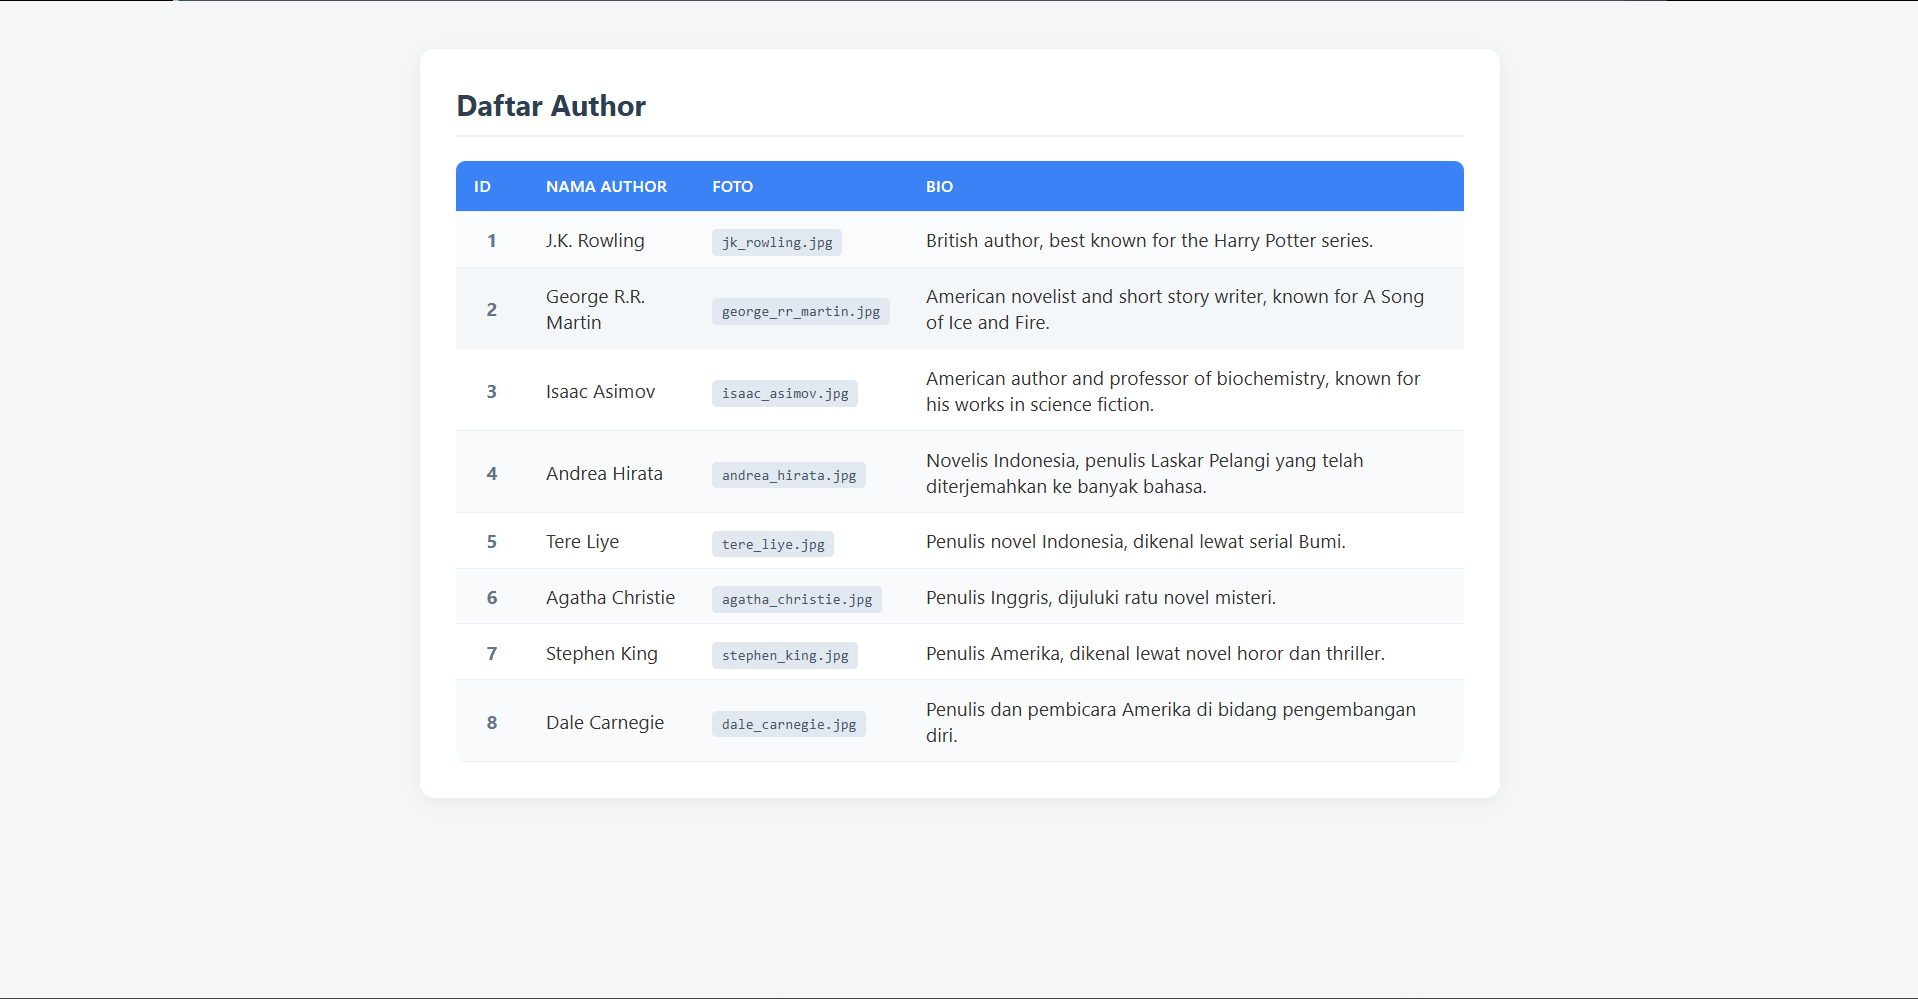
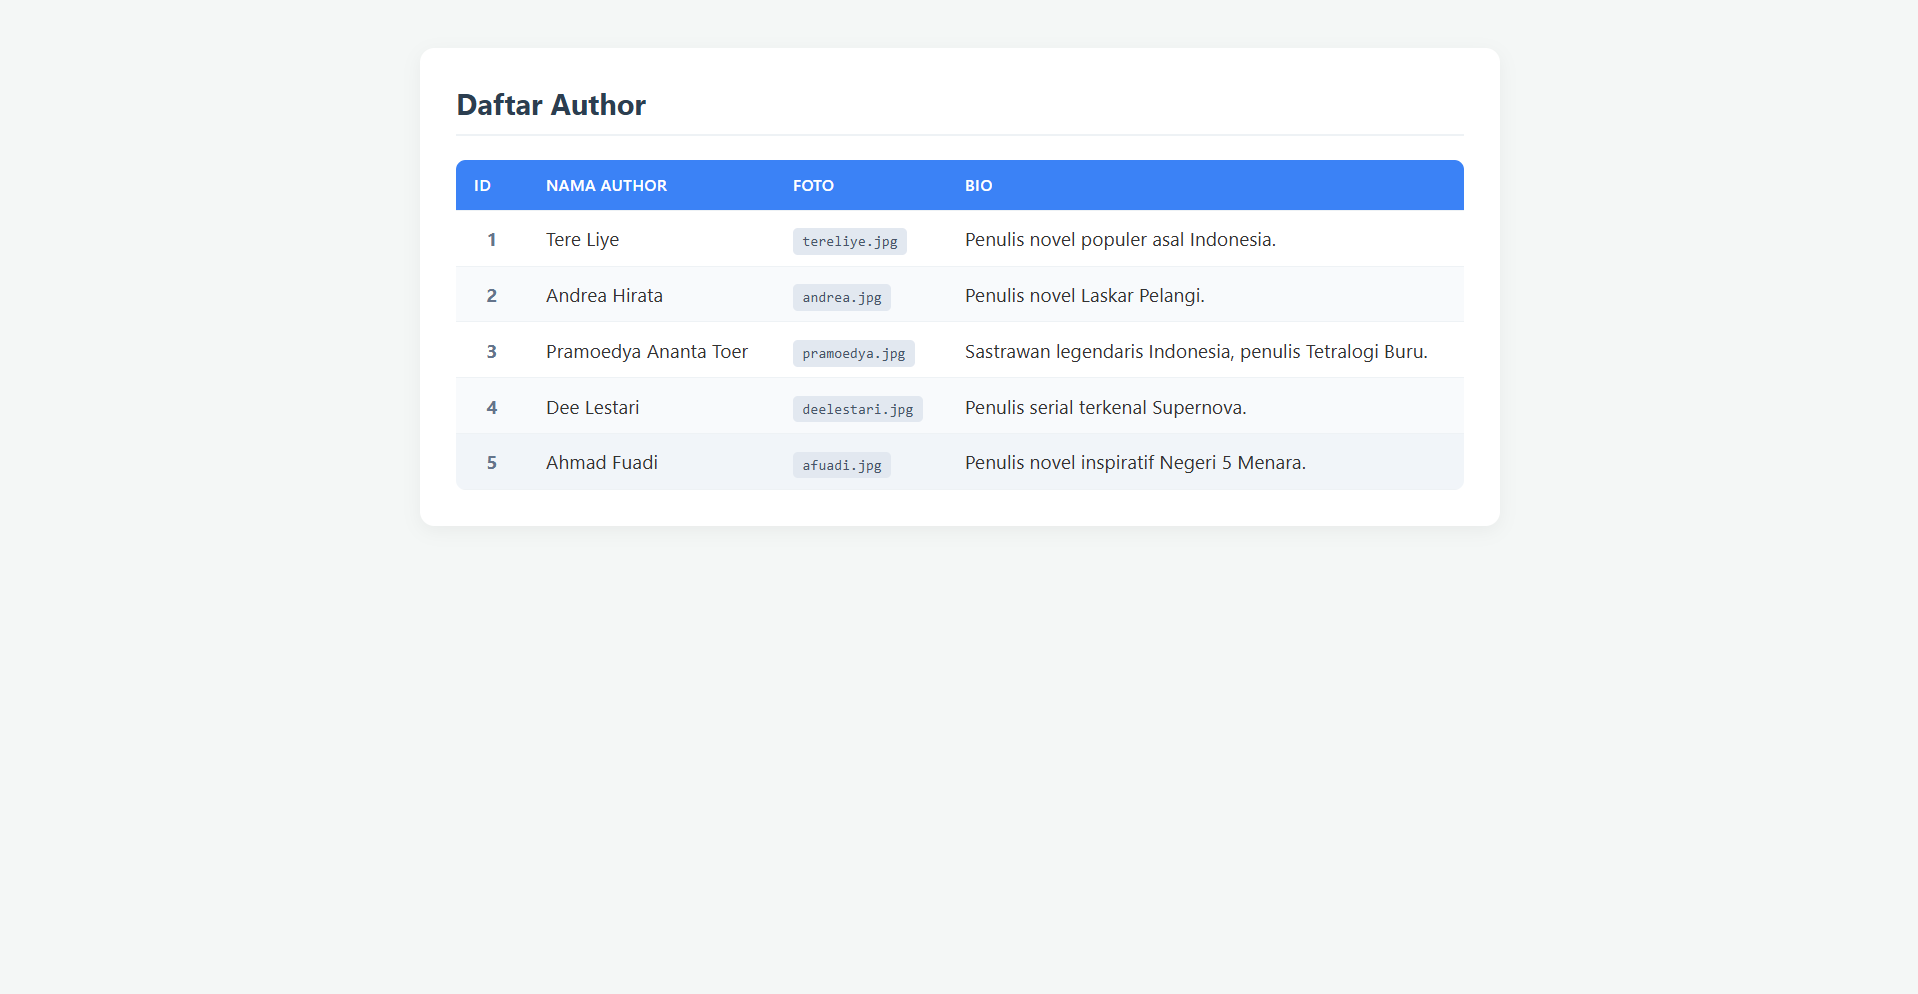
materi migration & seeder

diff --git a/booksales-api/resources/views/books/index.blade.php b/booksales-api/resources/views/books/index.blade.php
@@ -1,0 +1,109 @@
+<!DOCTYPE html>
+<html lang="id">
+<head>
+    <meta charset="UTF-8">
+    <meta name="viewport" content="width=device-width, initial-scale=1.0">
+    <title>Daftar Buku</title>
+    <style>
+        * {
+            box-sizing: border-box;
+            margin: 0;
+            padding: 0;
+        }
+        body {
+            font-family: 'Segoe UI', Tahoma, Geneva, Verdana, sans-serif;
+            background-color: #f4f7f6;
+            color: #333;
+            padding: 40px 20px;
+            display: flex;
+            justify-content: center;
+        }
+        .container {
+            width: 100%;
+            max-width: 900px;
+            background: #ffffff;
+            padding: 30px;
+            border-radius: 12px;
+            box-shadow: 0 4px 15px rgba(0,0,0,0.05);
+        }
+        h1 {
+            margin-bottom: 20px;
+            color: #2c3e50;
+            border-bottom: 2px solid #eef2f5;
+            padding-bottom: 10px;
+            font-size: 24px;
+        }
+        table {
+            width: 100%;
+            border-collapse: collapse;
+            margin-top: 10px;
+            overflow: hidden;
+            border-radius: 8px;
+        }
+        th, td {
+            padding: 12px 15px;
+            text-align: left;
+        }
+        th {
+            background-color: #3b82f6;
+            color: #ffffff;
+            font-weight: 600;
+            text-transform: uppercase;
+            font-size: 13px;
+            letter-spacing: 0.5px;
+        }
+        tr {
+            border-bottom: 1px solid #eef2f5;
+            transition: background-color 0.2s ease;
+        }
+        tr:nth-child(even) {
+            background-color: #f8fafc;
+        }
+        tr:hover {
+            background-color: #f1f5f9;
+        }
+        td:first-child {
+            font-weight: bold;
+            color: #64748b;
+            text-align: center;
+            width: 60px;
+        }
+        .price-tag {
+            background-color: #e2e8f0;
+            padding: 4px 8px;
+            border-radius: 4px;
+            font-family: monospace;
+            font-size: 12px;
+            color: #475569;
+            font-weight: bold;
+        }
+    </style>
+</head>
+<body>
+    <div class="container">
+        <h1>Daftar Buku</h1>
+        <table>
+            <thead>
+                <tr>
+                    <th>ID</th>
+                    <th>Judul Buku</th>
+                    <th>Harga</th>
+                    <th>Stok</th>
+                    <th>Penulis</th>
+                </tr>
+            </thead>
+            <tbody>
+                @foreach ($books as $book)
+                    <tr>
+                        <td>{{ $book->id }}</td>
+                        <td>{{ $book->title }}</td>
+                        <td><span class="price-tag">Rp {{ number_format($book->price, 0, ',', '.') }}</span></td>
+                        <td>{{ $book->stock }}</td>
+                        <td>{{ $book->author->name ?? 'Tidak ada author' }}</td>
+                    </tr>
+                @endforeach
+            </tbody>
+        </table>
+    </div>
+</body>
+</html>

diff --git a/booksales-api/app/Models/Author.php b/booksales-api/app/Models/Author.php
@@ -2,19 +2,15 @@
 
 namespace App\Models;
 
-class Author
+use Illuminate\Database\Eloquent\Model;
+use Illuminate\Database\Eloquent\Relations\HasMany;
+
+class Author extends Model
 {
-    public static function getAllData()
+    protected $fillable = ['name', 'email', 'photo', 'bio'];
+
+    public function books(): HasMany
     {
-        return [
-            ['id' => 1, 'name' => 'J.K. Rowling', 'photo' => 'jk_rowling.jpg', 'bio' => 'British author, best known for the Harry Potter series.'],
-            ['id' => 2, 'name' => 'George R.R. Martin', 'photo' => 'george_rr_martin.jpg', 'bio' => 'American novelist and short story writer, known for A Song of Ice and Fire.'],
-            ['id' => 3, 'name' => 'Isaac Asimov', 'photo' => 'isaac_asimov.jpg', 'bio' => 'American author and professor of biochemistry, known for his works in science fiction.'],
-            ['id' => 4, 'name' => 'Andrea Hirata', 'photo' => 'andrea_hirata.jpg', 'bio' => 'Novelis Indonesia, penulis Laskar Pelangi yang telah diterjemahkan ke banyak bahasa.'],
-            ['id' => 5, 'name' => 'Tere Liye', 'photo' => 'tere_liye.jpg', 'bio' => 'Penulis novel Indonesia, dikenal lewat serial Bumi.'],
-            ['id' => 6, 'name' => 'Agatha Christie', 'photo' => 'agatha_christie.jpg', 'bio' => 'Penulis Inggris, dijuluki ratu novel misteri.'],
-            ['id' => 7, 'name' => 'Stephen King', 'photo' => 'stephen_king.jpg', 'bio' => 'Penulis Amerika, dikenal lewat novel horor dan thriller.'],
-            ['id' => 8, 'name' => 'Dale Carnegie', 'photo' => 'dale_carnegie.jpg', 'bio' => 'Penulis dan pembicara Amerika di bidang pengembangan diri.'],
-        ];
+        return $this->hasMany(Book::class);
     }
 }

diff --git a/booksales-api/database/seeders/BookSeeder.php b/booksales-api/database/seeders/BookSeeder.php
@@ -1,0 +1,20 @@
+<?php
+
+namespace Database\Seeders;
+
+use Illuminate\Database\Seeder;
+use Illuminate\Support\Facades\DB;
+
+class BookSeeder extends Seeder
+{
+    public function run(): void
+    {
+        DB::table('books')->insert([
+            ['id' => 1, 'title' => 'Bumi', 'description' => 'Novel petualangan dunia paralel.', 'price' => 95000.00, 'stock' => 15, 'cover_photo' => 'bumi.jpg', 'genre_id' => 1, 'author_id' => 1, 'created_at' => now(), 'updated_at' => now()],
+            ['id' => 2, 'title' => 'Laskar Pelangi', 'description' => 'Kisah inspiratif anak-anak Belitung.', 'price' => 88000.00, 'stock' => 20, 'cover_photo' => 'laskar_pelangi.jpg', 'genre_id' => 1, 'author_id' => 2, 'created_at' => now(), 'updated_at' => now()],
+            ['id' => 3, 'title' => 'Bumi Manusia', 'description' => 'Karya legendaris Tetralogi Buru.', 'price' => 105000.00, 'stock' => 10, 'cover_photo' => 'bumi_manusia.jpg', 'genre_id' => 1, 'author_id' => 3, 'created_at' => now(), 'updated_at' => now()],
+            ['id' => 4, 'title' => 'Supernova', 'description' => 'Serial fiksi ilmiah modern.', 'price' => 90000.00, 'stock' => 12, 'cover_photo' => 'supernova.jpg', 'genre_id' => 3, 'author_id' => 4, 'created_at' => now(), 'updated_at' => now()],
+            ['id' => 5, 'title' => 'Negeri 5 Menara', 'description' => 'Novel inspiratif impian anak pesantren.', 'price' => 85000.00, 'stock' => 18, 'cover_photo' => 'negeri5menara.jpg', 'genre_id' => 4, 'author_id' => 5, 'created_at' => now(), 'updated_at' => now()],
+        ]);
+    }
+}

diff --git a/booksales-api/database/seeders/AuthorSeeder.php b/booksales-api/database/seeders/AuthorSeeder.php
@@ -1,0 +1,20 @@
+<?php
+
+namespace Database\Seeders;
+
+use Illuminate\Database\Seeder;
+use Illuminate\Support\Facades\DB;
+
+class AuthorSeeder extends Seeder
+{
+    public function run(): void
+    {
+        DB::table('authors')->insert([
+            ['id' => 1, 'name' => 'Tere Liye', 'photo' => 'tereliye.jpg', 'bio' => 'Penulis novel populer asal Indonesia.', 'created_at' => now(), 'updated_at' => now()],
+            ['id' => 2, 'name' => 'Andrea Hirata', 'photo' => 'andrea.jpg', 'bio' => 'Penulis novel Laskar Pelangi.', 'created_at' => now(), 'updated_at' => now()],
+            ['id' => 3, 'name' => 'Pramoedya Ananta Toer', 'photo' => 'pramoedya.jpg', 'bio' => 'Sastrawan legendaris Indonesia, penulis Tetralogi Buru.', 'created_at' => now(), 'updated_at' => now()],
+            ['id' => 4, 'name' => 'Dee Lestari', 'photo' => 'deelestari.jpg', 'bio' => 'Penulis serial terkenal Supernova.', 'created_at' => now(), 'updated_at' => now()],
+            ['id' => 5, 'name' => 'Ahmad Fuadi', 'photo' => 'afuadi.jpg', 'bio' => 'Penulis novel inspiratif Negeri 5 Menara.', 'created_at' => now(), 'updated_at' => now()],
+        ]);
+    }
+}

diff --git a/booksales-api/database/migrations/2026_10_27_032748_create_authors_table.php b/booksales-api/database/migrations/2026_10_27_032748_create_authors_table.php
@@ -1,0 +1,28 @@
+<?php
+
+use Illuminate\Database\Migrations\Migration;
+use Illuminate\Database\Schema\Blueprint;
+use Illuminate\Support\Facades\Schema;
+
+return new class extends Migration
+{
+    public function up(): void
+    {
+        Schema::create('books', function (Blueprint $table) {
+            $table->id();
+            $table->string('title');
+            $table->text('description')->nullable();
+            $table->decimal('price', 10, 2);
+            $table->integer('stock');
+            $table->string('cover_photo')->nullable();
+            $table->foreignId('genre_id')->nullable()->constrained('genres')->onDelete('set null');
+            $table->foreignId('author_id')->constrained('authors')->onDelete('cascade');
+            $table->timestamps();
+        });
+    }
+
+    public function down(): void
+    {
+        Schema::dropIfExists('books');
+    }
+};

diff --git a/booksales-api/database/migrations/2026_10_27_032809_create_books_table.php b/booksales-api/database/migrations/2026_10_27_032809_create_books_table.php
@@ -1,0 +1,28 @@
+<?php
+
+use Illuminate\Database\Migrations\Migration;
+use Illuminate\Database\Schema\Blueprint;
+use Illuminate\Support\Facades\Schema;
+
+return new class extends Migration
+{
+    public function up(): void
+    {
+        Schema::create('books', function (Blueprint $table) {
+            $table->id();
+            $table->string('title');
+            $table->text('description')->nullable();
+            $table->decimal('price', 10, 2);
+            $table->integer('stock');
+            $table->string('cover_photo')->nullable();
+            $table->foreignId('genre_id')->nullable()->constrained('genres')->onDelete('set null');
+            $table->foreignId('author_id')->constrained('authors')->onDelete('cascade');
+            $table->timestamps();
+        });
+    }
+
+    public function down(): void
+    {
+        Schema::dropIfExists('books');
+    }
+};

diff --git a/booksales-api/app/Models/Book.php b/booksales-api/app/Models/Book.php
@@ -1,0 +1,20 @@
+<?php
+
+namespace App\Models;
+
+use Illuminate\Database\Eloquent\Model;
+use Illuminate\Database\Eloquent\Relations\BelongsTo;
+
+class Book extends Model
+{
+    protected $fillable = ['author_id', 'title', 'publication_year'];
+
+    public function author(): BelongsTo
+    {
+        return $this->belongsTo(Author::class);
+    }
+    public function genre()
+    {
+        return $this->belongsTo(Genre::class);
+    }
+}

diff --git a/booksales-api/routes/web.php b/booksales-api/routes/web.php
@@ -3,6 +3,8 @@
 use Illuminate\Support\Facades\Route;
 use App\Http\Controllers\GenreController;
 use App\Http\Controllers\AuthorController;
+use App\Http\Controllers\BookController;
 
+Route::get('/books', [BookController::class, 'index']);
 Route::get('/genres', [GenreController::class, 'index']);
 Route::get('/authors', [AuthorController::class, 'index']);

diff --git a/booksales-api/database/seeders/DatabaseSeeder.php b/booksales-api/database/seeders/DatabaseSeeder.php
@@ -15,7 +15,10 @@ class DatabaseSeeder extends Seeder
      */
     public function run(): void
     {
-        // User::factory(10)->create();
+        $this->call([
+            AuthorSeeder::class,
+            BookSeeder::class,
+        ]);
 
         User::factory()->create([
             'name' => 'Test User',

diff --git a/booksales-api/app/Http/Controllers/AuthorController.php b/booksales-api/app/Http/Controllers/AuthorController.php
@@ -8,7 +8,9 @@ class AuthorController
 {
     public function index()
     {
-        $authors = Author::getAllData();
+        // Ubah dari Author::getAllData() menjadi Author::all()
+        $authors = Author::all(); 
+        
         return view('authors.index', compact('authors'));
     }
 }

diff --git a/booksales-api/app/Http/Controllers/BookController.php b/booksales-api/app/Http/Controllers/BookController.php
@@ -1,0 +1,14 @@
+<?php
+
+namespace App\Http\Controllers;
+
+use App\Models\Book;
+
+class BookController 
+{
+    public function index()
+    {
+        $books = Book::with('author')->get();
+        return view('books.index', compact('books'));
+    }
+}

diff --git a/README.md b/README.md
@@ -1,6 +1,6 @@
 # Booksales API - Tugas Pertemuan 1 (Sistem MVC Laravel)
 
-Proyek ini dibuat untuk memenuhi tugas implementasi sistem MVC (Model-View-Controller) sederhana pada framework Laravel 12 dengan studi kasus data **Genre** dan **Author**.
+Proyek ini dibuat untuk memenuhi tugas implementasi sistem MVC (Model-View-Controller), Migration, Seeder, dan Relasi Eloquent sederhana pada framework Laravel dengan studi kasus data **Author** dan **Book**.
 
 ---
 
@@ -8,29 +8,33 @@ Proyek ini dibuat untuk memenuhi tugas implementasi sistem MVC (Model-View-Contr
 
 Berikut adalah daftar file yang ditambahkan dan disesuaikan dalam tugas ini:
 
-### 1. Model
-* `app/Models/Genre.php` — Menyimpan data statis array untuk tabel Genre (ID, Name, Description).
-* `app/Models/Author.php` — Menyimpan data statis array untuk tabel Author (ID, Name, Photo, Bio).
+### 1. Database & Seeder
+- `database\migrations\2026_10_27_032748_create_authors_table.php` — Skema tabel `authors` (id, name, photo, bio, timestamps).
+- `database\migrations\2026_10_27_032809_create_books_table.php` — Skema tabel `books` (id, title, description, price, stock, cover_photo, author_id, timestamps).
+- `database/seeders/AuthorSeeder.php` — Mengisi data awal dummy untuk tabel `authors`.
+- `database/seeders/BookSeeder.php` — Mengisi data awal dummy untuk tabel `books`.
 
-### 2. Controller
-* `app/Http/Controllers/GenreController.php` — Mengambil data dari `Genre` Model dan mengirimkannya ke View `genres.index`.
-* `app/Http/Controllers/AuthorController.php` — Mengambil data dari `Author` Model dan mengirimkannya ke View `authors.index`.
+### 2. Model
+- `app/Models/Author.php` — Model untuk tabel `authors` beserta relasi `hasMany` ke `Book`.
+- `app/Models/Book.php` — Model untuk tabel `books` beserta relasi `belongsTo` ke `Author`.
 
-### 3. View
-* `resources/views/genres/index.blade.php` — Menampilkan tabel daftar genre dengan styling CSS.
-* `resources/views/authors/index.blade.php` — Menampilkan tabel daftar author dengan styling CSS.
+### 3. Controller
+- `app/Http/Controllers/AuthorController.php` — Mengambil data dari `Author` Model dan mengirimkannya ke View `authors.index`.
+- `app/Http/Controllers/BookController.php` — Mengambil data dari `Book` Model beserta relasi author-nya dan mengirimkannya ke View `books.index`.
 
-### 4. Routing
-* `routes/web.php` — Mendaftarkan rute `/genres` dan `/authors`.
+### 4. View
+- `resources/views/authors/index.blade.php` — Menampilkan tabel daftar author dengan styling CSS.
+- `resources/views/books/index.blade.php` — Menampilkan tabel daftar buku lengkap dengan harga, stok, dan nama penulis.
+
+### 5. Routing
+- `routes/web.php` — Mendaftarkan rute `/authors` dan `/books`.
 
 ---
 
 ## 📸 Tampilan Aplikasi
 
-### 1. Daftar Genre (`/genres`)
-![Daftar Genre](genre.png)
-
-### 2. Daftar Author (`/authors`)
+### 1. Daftar Author (`/authors`)
 ![Daftar Author](author.png)
 
----
+### 2. Daftar Book (`/books`)
+![Daftar Book](book.png)
